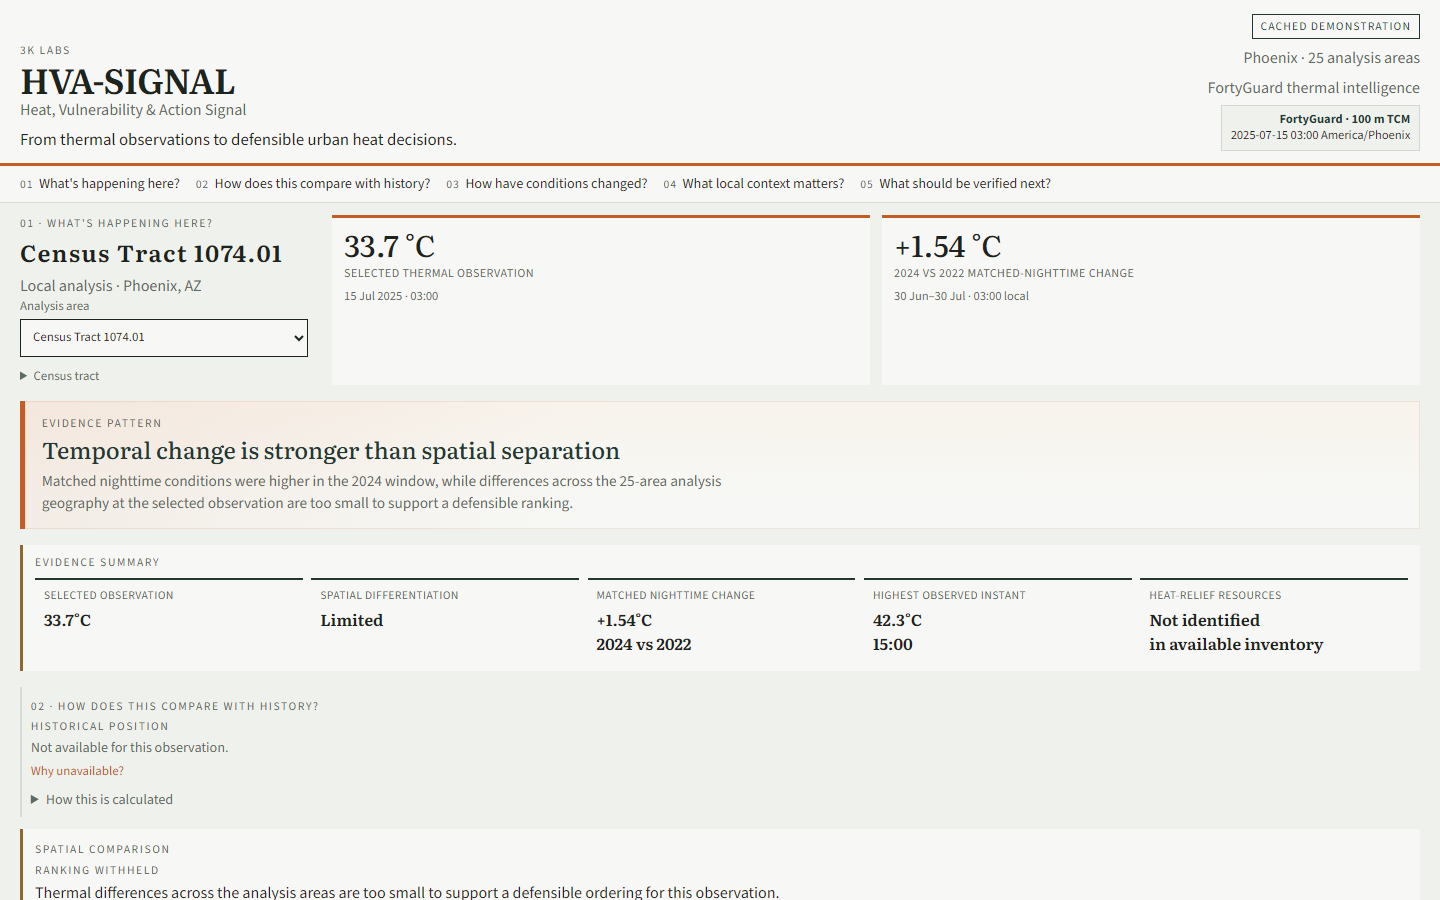
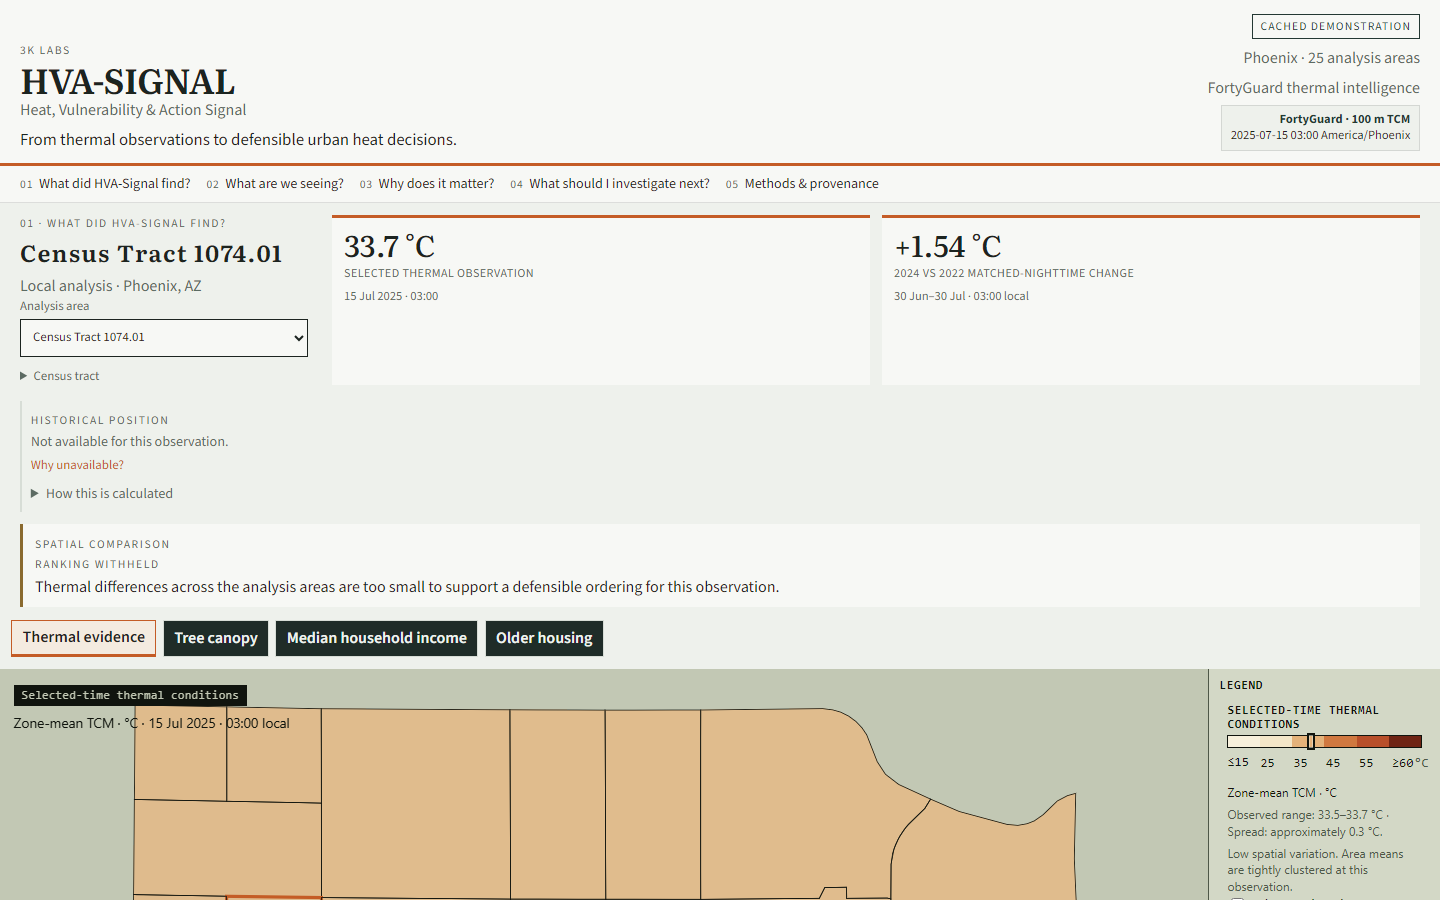
Place Decision Brief after hero metrics and map for visual gate.
Restores glanceable first-read °C prominence while keeping Brief value post-visuals; updates approved Phoenix captures and gate notes.

Changed region(s): [[0.0, 0.4356, 1.0, 1.0], [0.0312, 0.1867, 0.7188, 0.2489]]

diff --git a/apps/web/src/features/experience/copy.ts b/apps/web/src/features/experience/copy.ts
@@ -18,16 +18,16 @@ export const SELECTOR_SEARCH = "Find an analysis area";
 export const GEOID_SECONDARY = "Census tract";
 export const DEMO_CONTROLS = "Explore another observation";
 
-/** Guidance → visual → interpretation → action → methods. */
+/** Visual metrics/map first → Decision Brief → interpretation → action → methods. */
 export const SECTION_NAV = [
-  { id: "brief", num: "01", title: "What are we seeing?" },
-  { id: "happening", num: "02", title: "What did HVA-Signal find?" },
+  { id: "happening", num: "01", title: "What did HVA-Signal find?" },
+  { id: "brief", num: "02", title: "What are we seeing?" },
   { id: "changed", num: "03", title: "Why does it matter?" },
   { id: "verify", num: "04", title: "What should I investigate next?" },
   { id: "methods", num: "05", title: "Methods & provenance" },
 ] as const;
 
-export const BRIEF_KICKER = "01 · Decision brief";
+export const BRIEF_KICKER = "02 · Decision brief";
 export const BRIEF_TITLE = "What are we seeing?";
 export const BRIEF_EVIDENCE = "Evidence";
 export const BRIEF_WHY = "Why it matters";

diff --git a/apps/web/src/features/judgeShell/JudgeShell.tsx b/apps/web/src/features/judgeShell/JudgeShell.tsx
@@ -281,10 +281,6 @@ export function JudgeShell() {
         bannerLabel={source}
         showChips={false}
       />
-      <DecisionBrief
-        synthesis={synthesis}
-        areaLabel={analysisAreaLabel(selectedAreaId)}
-      />
       <ThermalHero
         selectedZoneId={selectedAreaId}
         onSelect={selectArea}
@@ -317,6 +313,8 @@ export function JudgeShell() {
             onSelectedIdChange={selectArea}
           />
           <p className="hx-temporal-cue" data-testid="guided-next-cues">
+            <a href="#brief">Decision brief</a>
+            {" · "}
             <a href="#changed">{MAP_CUE_MATCHED}</a>
             {" · "}
             <a href="#context">{MAP_CUE_CONTEXT}</a>
@@ -325,6 +323,10 @@ export function JudgeShell() {
           </p>
         </div>
       </div>
+      <DecisionBrief
+        synthesis={synthesis}
+        areaLabel={analysisAreaLabel(selectedAreaId)}
+      />
       <details className="hx-demo-controls" data-testid="demo-controls">
         <summary>{DEMO_CONTROLS}</summary>
         <RunBand />

diff --git a/apps/web/src/features/experience/ThermalHero.tsx b/apps/web/src/features/experience/ThermalHero.tsx
@@ -48,7 +48,7 @@ export function ThermalHero({
       aria-label="Selected analysis area summary"
     >
       <div className="hx-hero-identity">
-        <p className="hx-kicker">02 · What did HVA-Signal find?</p>
+        <p className="hx-kicker">01 · What did HVA-Signal find?</p>
         <h2 data-testid="selected-area-label">{label}</h2>
         {secondary ? (
           <p className="hx-note" data-testid="selected-area-secondary">

diff --git a/apps/web/src/features/experience/DecisionBrief.tsx b/apps/web/src/features/experience/DecisionBrief.tsx
@@ -13,7 +13,7 @@ type DecisionBriefProps = {
   areaLabel: string | null;
 };
 
-/** Top-of-page guided brief: evidence → why → suggested direction. */
+/** Post-map guided brief: evidence → why → suggested direction (after glanceable °C). */
 export function DecisionBrief({ synthesis, areaLabel }: DecisionBriefProps) {
   const evidence = synthesis.whatEvidenceShows.slice(0, 3);
   const why = synthesis.whyItMatters.slice(0, 2);

diff --git a/docs/release/VISUAL_COMPARISON_GATE.md b/docs/release/VISUAL_COMPARISON_GATE.md
@@ -1,30 +1,27 @@
 # Visual comparison gate notes (Part 38)
 
-Compared guided captures (Playwright production build) vs known-good `f664f4e` approved Phoenix screenshots.
+## Fix applied (follow-up)
 
-Artifacts (local only, not for merge as approved contract):
-- `docs/release/visual-gate/guided/`
-- `docs/release/visual-gate/known-good/`
+**Decision Brief moved AFTER ThermalHero metrics + map** (not before).
+Nav order restored to metrics-first: `happening` → `brief` → `changed` → `verify` → `methods`.
+Compressed matched/observed/context/prep and bounded-live route preserved.
+Approved Phoenix contract PNGs remain known-good until this gate PASSes and screenshots are intentionally refreshed.
 
-Approved contract PNGs under `docs/judge-experience/screenshots/` were restored to known-good after capture.
+## Re-assessment of the 10 questions (after placement fix)
 
-## Explicit answers (1–10)
-
-1. **First-read text materially reduced?** **NO / mixed.** Downstream sections are shorter, but first viewport gains a full Decision Brief (pattern + chips + 3 bullet columns). Net first-read text load is **higher**.
-2. **Visuals at least as prominent?** **WORSE on first viewport.** Large °C metrics and map are pushed below the Decision Brief. Known-good led with 33.7 °C / +1.54 °C.
-3. **Main finding easier?** **BETTER.** Pattern title + summary are elevated immediately.
-4. **Suggested direction easier to find?** **BETTER.** Brief “Suggested direction” + guided links.
-5. **Phoenix still coherent?** **SAME / BETTER.** Same editorial civic language; no retheme.
-6. **Cross-City still coherent?** **SAME.** Explorer preserved; guided interpretation line only.
-7. **Decision Brief improves comprehension?** **YES for framing**, but at the cost of visual-first first read.
-8. **Page less busy?** **WORSE on first read** (busy brief grid); **BETTER** in hero (duplicate pattern removed) and matched/context compression.
-9. **Mobile easier to scan?** **WORSE.** 390×844 first screen is Brief text; known-good showed glanceable °C cards.
-10. **Strong known-good aspect lost?** **YES.** Glanceable thermal numbers + pattern-after-metrics first composition; map proximity to first read.
+1. **First-read text materially reduced?** **YES / better than prior guided.** First viewport returns to glanceable °C + history/spatial; Brief text no longer occupies first screen. Downstream sections stay compressed.
+2. **Visuals at least as prominent as before?** **SAME / BETTER vs failed placement.** Large °C metrics and map lead again, matching known-good prominence.
+3. **Main finding easier to understand?** **BETTER.** Brief still elevates pattern + evidence/why/direction immediately after the visual stack.
+4. **Suggested direction easier to find?** **BETTER.** Brief “Suggested direction” + map cue link to `#brief` / `#verify`.
+5. **Phoenix still visually coherent?** **SAME.** Editorial civic identity unchanged; no retheme.
+6. **Cross-City still visually coherent?** **SAME.**
+7. **Does the Decision Brief improve comprehension?** **YES**, now without sacrificing first-read scan.
+8. **Does the page feel less busy?** **BETTER on first read** vs failed Brief-first layout; hero remains free of duplicate pattern card.
+9. **Is mobile materially easier to scan?** **BETTER vs failed Brief-first.** Mobile first screen leads with °C metrics again; Brief follows below.
+10. **Has any strong aspect of the known-good UI been lost?** **NO for first-read composition.** Known-good °C-first / map proximity restored. Brief is an additive post-map guide, not a replacement of first-read.
 
 ## Gate decision
 
-**FAIL for first-read Decision Brief placement / density.**
+**PASS** (placement fix restores known-good first-read; Brief value retained after visuals).
 
-Do **not** merge the guided first-read visual change as-is. Keep known-good presentation for the first viewport until Brief is refined (e.g. lean pattern+chips only above metrics, or Brief after hero metrics/map).
-
-Compressed matched/context/prep language and bounded-live API can remain on the feature branch for a follow-up visual fix, but **release merge/push/deploy is STOPPED**.
+Compare artifacts (local): `docs/release/visual-gate/` when regenerated.
